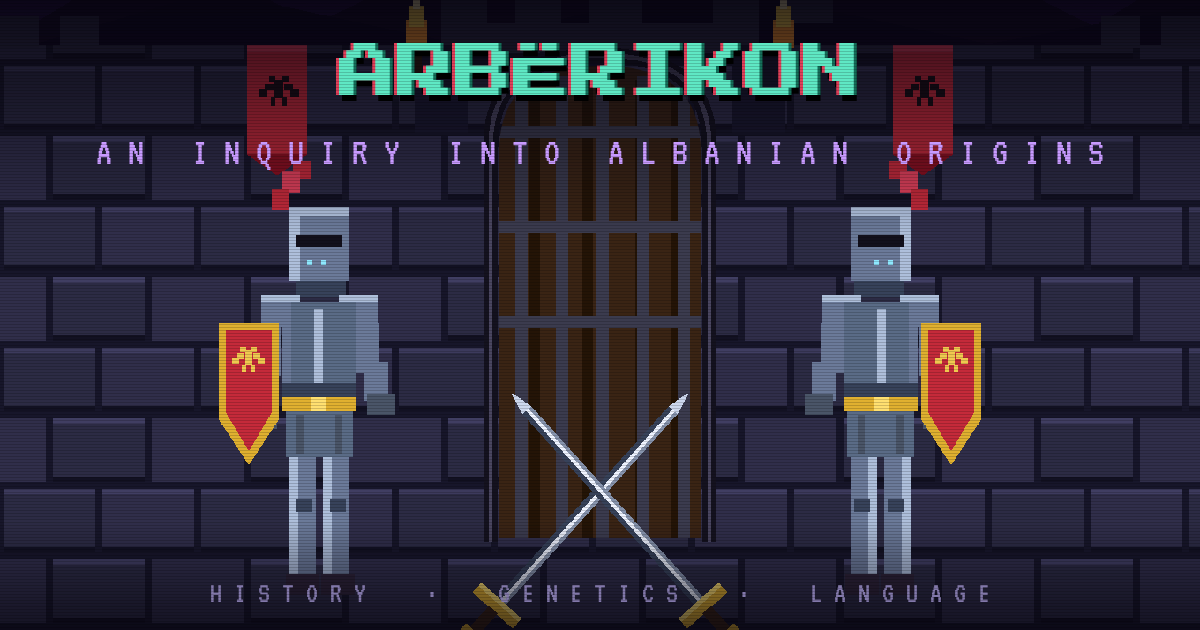
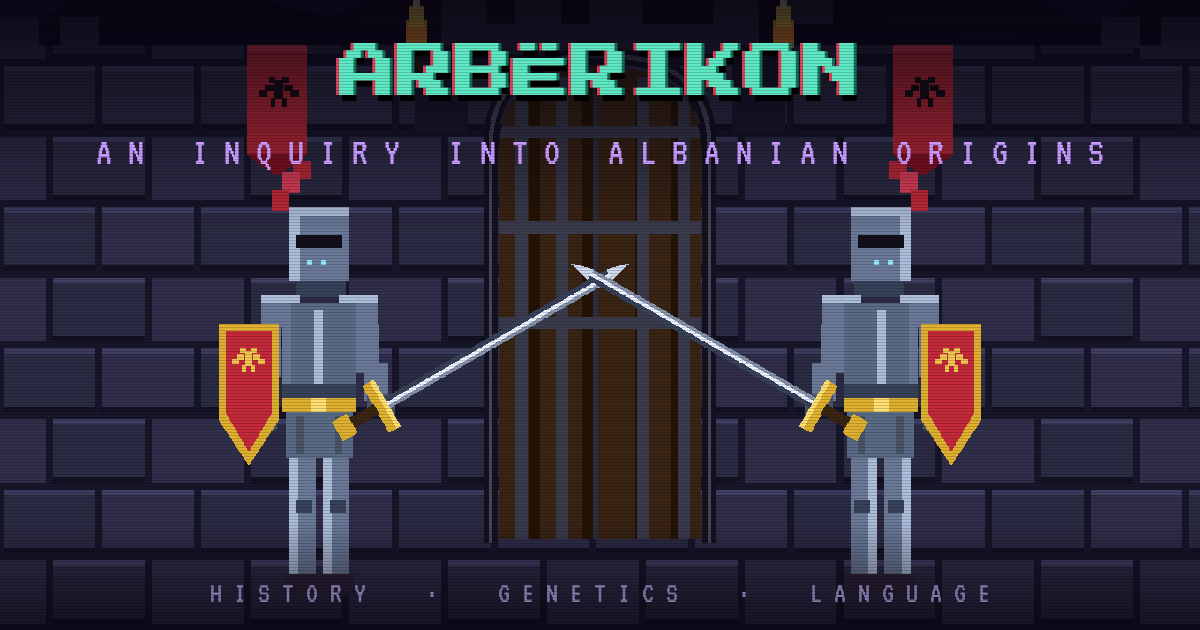
Update link-preview card to match held-swords gate
Regenerate the og-image from the current scene so the knights are
holding the crossed swords (the old card still showed the floating
swords). Publish as og-pixel-v2.png and repoint og:image/twitter:image
to bust social-scraper caches.

diff --git a/index.html b/index.html
@@ -25,7 +25,7 @@
 <meta property="og:title" content="Albanian History, Genetics & Linguistics" />
 <meta property="og:description" content="An open inquiry into Albanian origins through ancient history, archaeogenetics, and comparative linguistics." />
 <meta property="og:url" content="https://arberikon.com/" />
-<meta property="og:image" content="https://arberikon.com/og-pixel.png" />
+<meta property="og:image" content="https://arberikon.com/og-pixel-v2.png" />
 <meta property="og:image:width" content="1200" />
 <meta property="og:image:height" content="630" />
 <meta property="og:image:alt" content="Arbërikon — Albanian heritage research" />
@@ -33,7 +33,7 @@
 <meta name="twitter:site" content="@arberikon" />
 <meta name="twitter:title" content="Albanian History, Genetics & Linguistics" />
 <meta name="twitter:description" content="An open inquiry into Albanian origins through ancient history, archaeogenetics, and comparative linguistics." />
-<meta name="twitter:image" content="https://arberikon.com/og-pixel.png" />
+<meta name="twitter:image" content="https://arberikon.com/og-pixel-v2.png" />
 
 <link rel="preconnect" href="https://fonts.googleapis.com" />
 <link rel="preconnect" href="https://fonts.gstatic.com" crossorigin />
